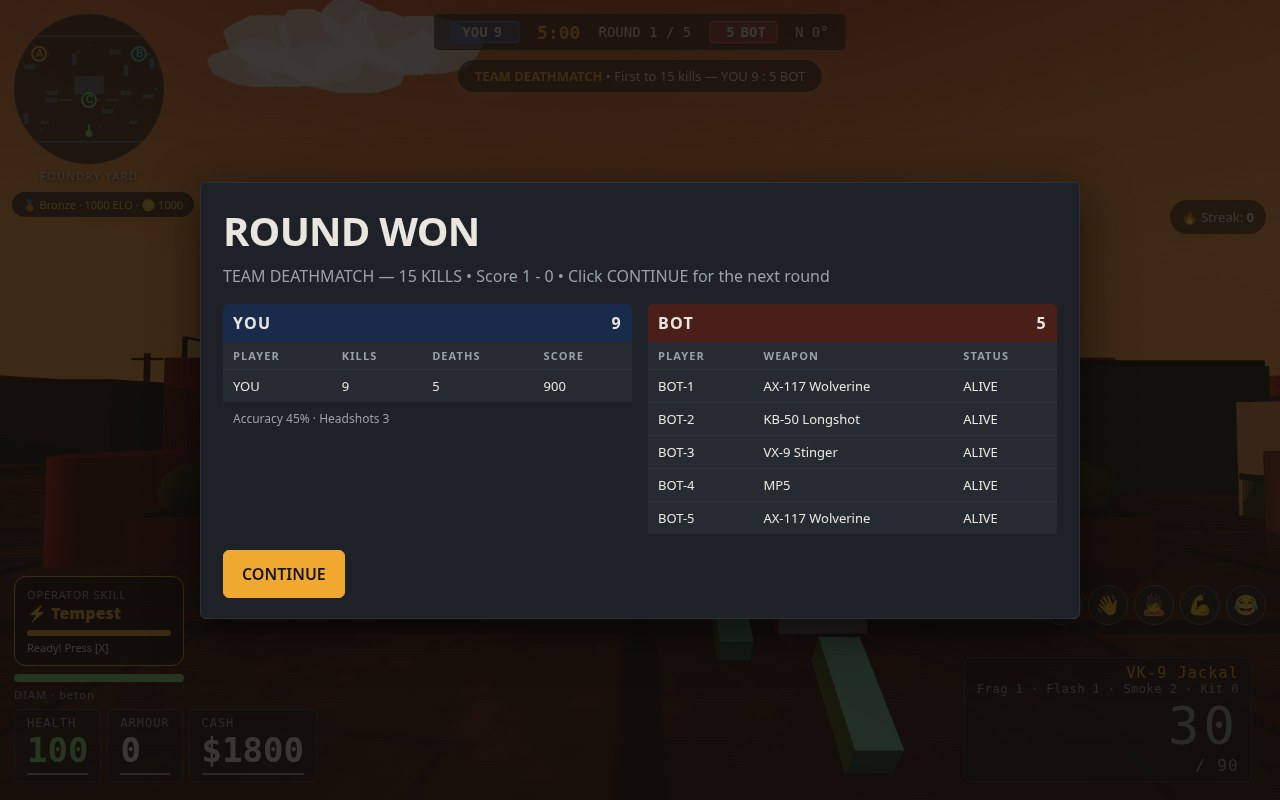
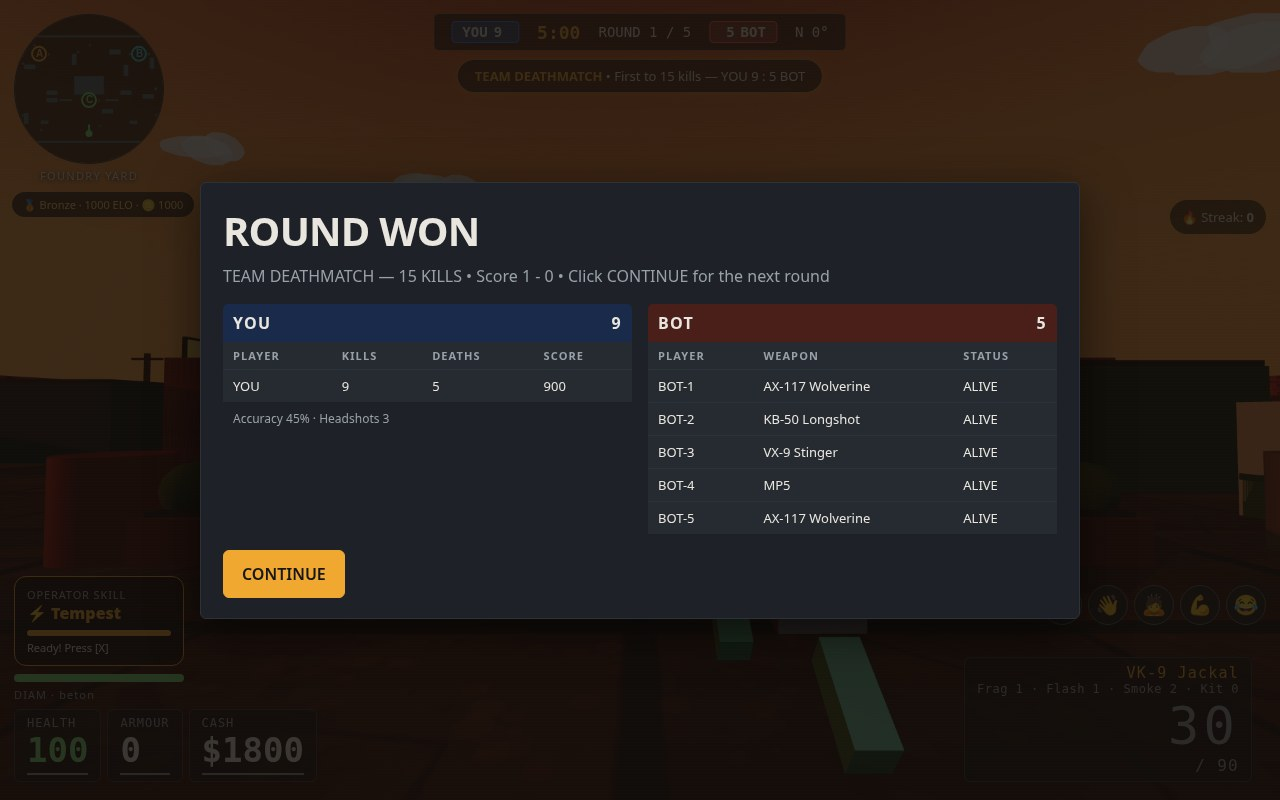
forge-fps per-map lighting pass: each map gets its own light atmosphere via MAP_WEATHER_FULL overrides (sun color/angle, hemi, sky, fog color, cloud tint) consumed by applyWeather; foundry default weather clear->sunset so normal play matches the dusk reference; ember warm desert, twin soft bright da

diff --git a/game/src/weather.js b/game/src/weather.js
@@ -19,20 +19,23 @@ export const WEATHER_IDS = Object.keys(WEATHER_DEFS);
 // Default weather per map (original map ids, not the COD names).
 // v17.2: ruin = heavy rain + lightning, cargo = drizzle, harvest = foggy
 // morning (the older fog/clear defaults for those maps are superseded).
-export const MAP_WEATHER = { ember: 'sand', ruin: 'storm', iron: 'sunset', foundry: 'clear', twin: 'clear', cargo: 'rain', harvest: 'fog' };
+export const MAP_WEATHER = { ember: 'sand', ruin: 'storm', iron: 'sunset', foundry: 'sunset', twin: 'clear', cargo: 'rain', harvest: 'fog' };
 // Full per-map weather parameters (v17.2): each map has its own sky + fog
 // density + sun intensity + particle behaviour + wind + ambient sound.
 // The base `weather` must match MAP_WEATHER above; the extras only apply
 // while that map weather is in effect (cycle / random / manual override the
 // base weather, and then the extras do not apply).
+// Per-map light (v28): each map gets its own sun color/angle, hemisphere,
+// sky, fog color and cloud tint on top of its weather — foundry stays the
+// plain sunset def (the dusk reference); ruin keeps its storm-night identity.
 export const MAP_WEATHER_FULL = {
-  ember: { weather: 'sand', fog: [6, 30], sunInt: 1.6, wind: 3, ambient: 'sand', bolt: null, puddles: false, fogBalls: false },
-  twin: { weather: 'clear', fog: [30, 95], sunInt: 3.2, wind: 1, ambient: 'birds', bolt: null, puddles: false, fogBalls: false },
-  iron: { weather: 'sunset', fog: [18, 60], sunInt: 1.2, wind: 1, ambient: 'city', bolt: null, puddles: false, fogBalls: false, sky: { top: '#3a3a42', mid: '#5a5a62', horizon: '#8a8a92', glow: 'rgba(180,180,190,0.3)', stars: false } },
-  cargo: { weather: 'rain', fog: [25, 80], sunInt: 1.0, wind: 1, ambient: 'rain-light', bolt: null, puddles: true, fogBalls: false },
-  harvest: { weather: 'fog', fog: [4, 25], sunInt: 0.8, wind: 0.5, ambient: 'birds', bolt: null, puddles: false, fogBalls: true },
-  ruin: { weather: 'storm', fog: [15, 55], sunInt: 2.0, wind: 2, ambient: 'rain-heavy', bolt: [2, 4], puddles: true, fogBalls: false },
-  foundry: { weather: 'clear', fog: [30, 95], sunInt: 2.8, wind: 1, ambient: 'city', bolt: null, puddles: false, fogBalls: false },
+  ember: { weather: 'sand', fog: [6, 30], sunInt: 1.9, wind: 3, ambient: 'sand', bolt: null, puddles: false, fogBalls: false, sky: { top: '#7a5a22', mid: '#c89848', horizon: '#f0d078', glow: 'rgba(255,220,140,0.6)', stars: false }, sunC: 0xffc860, sunP: [-30, 40, 20], hemi: [0xe8c878, 0x8a6a3a, 1.25], bg: 0xd8b25a, cloud: 0xffe8c0 },
+  twin: { weather: 'clear', fog: [30, 95], sunInt: 3.2, wind: 1, ambient: 'birds', bolt: null, puddles: false, fogBalls: false, sky: { top: '#4a86c8', mid: '#8ab8e8', horizon: '#ffe8c0', glow: 'rgba(255,235,180,0.8)', stars: false }, sunC: 0xfff0c0, sunP: [-25, 65, 15], hemi: [0xcfe0ff, 0x9a8a6a, 1.7], bg: 0x9fd0f0, cloud: 0xffffff },
+  iron: { weather: 'sunset', fog: [18, 60], sunInt: 1.2, wind: 1, ambient: 'city', bolt: null, puddles: false, fogBalls: false, sky: { top: '#3a3a42', mid: '#5a5a62', horizon: '#8a8a92', glow: 'rgba(180,180,190,0.3)', stars: false }, sunC: 0xff8a5a, sunP: [-40, 14, 20], hemi: [0x8a8a9a, 0x3a3a44, 1.0], bg: 0x6a6a72, cloud: 0x6a6a72 },
+  cargo: { weather: 'rain', fog: [25, 80], sunInt: 1.0, wind: 1, ambient: 'rain-light', bolt: null, puddles: true, fogBalls: false, sky: { top: '#232c36', mid: '#3a4753', horizon: '#5a6a72', glow: 'rgba(170,190,205,0.3)', stars: false }, sunC: 0xb8c4d0, sunP: [-20, 55, 10], hemi: [0x7a8a9a, 0x3a3a3a, 1.0], bg: 0x4a5a68, cloud: 0x5a6a78 },
+  harvest: { weather: 'fog', fog: [4, 25], sunInt: 0.8, wind: 0.5, ambient: 'birds', bolt: null, puddles: false, fogBalls: true, sky: { top: '#7a8a6a', mid: '#b8c898', horizon: '#ffe0a0', glow: 'rgba(255,220,150,0.7)', stars: false }, sunC: 0xffd890, sunP: [45, 12, 10], hemi: [0xffe0a8, 0x5a6a4a, 1.1], bg: 0xa8b89a, cloud: 0xf0e8d0 },
+  ruin: { weather: 'storm', fog: [15, 55], sunInt: 2.0, wind: 2, ambient: 'rain-heavy', bolt: [2, 4], puddles: true, fogBalls: false, sunC: 0x9fb8ff, sunP: [-20, 40, 10], hemi: [0x3a4a6a, 0x12121a, 1.3], bg: 0x1a2028, cloud: 0x2a323e },
+  foundry: { weather: 'sunset', fog: [18, 70], sunInt: 2.6, wind: 1, ambient: 'city', bolt: null, puddles: false, fogBalls: false },
 };
 // Ambient sound per weather type (used when no per-map ambient is set).
 const WEATHER_AMBIENT = { clear: 'birds', sunset: 'city', night: 'city', rain: 'rain-light', storm: 'rain-heavy', sand: 'sand', snow: 'wind', fog: 'wind', dawn: 'birds' };
@@ -181,24 +184,27 @@ export function createWeather(scene, S, world, audio) {
       rainbowDelay = 10; rainbowT = 0;
     }
     S.weather = id;
-    scene.background = new THREE.Color(def.bg);
-    scene.fog.color.setHex(def.bg);
+    const bg = (over && over.bg != null) ? over.bg : def.bg;
+    scene.background = new THREE.Color(bg);
+    scene.fog.color.setHex(bg);
     // Graphics quality (v18.6.10): Low pulls the fog in close, Ultra pushes it out.
     const fogF = S.fogFactor || 1;
     fogNT = ((over && over.fog) ? over.fog[0] : def.fog[0]) * fogF;
     fogFT = ((over && over.fog) ? over.fog[1] : def.fog[1]) * fogF;
     world.setSky((over && over.sky) ? over.sky : def.sky);
-    world.sun.color.setHex(def.sun.color);
+    world.sun.color.setHex((over && over.sunC != null) ? over.sunC : def.sun.color);
     // Brightness slider (v18.3.2) × Ultra sun boost (v18.6.10).
     const bright = (S.settings && S.settings.graphics && S.settings.graphics.brightness) || 1;
     const qSun = S.qualitySun || 1;
     sunTarget = ((over && over.sunInt != null) ? over.sunInt : def.sun.int) * bright * qSun;
-    world.sun.position.set(...def.sun.pos);
+    const sp = (over && over.sunP) ? over.sunP : def.sun.pos;
+    world.sun.position.set(...sp);
     baseSunInt = sunTarget;
-    sunBase = { x: def.sun.pos[0] * 1.6, y: Math.max(12, def.sun.pos[1]), z: def.sun.pos[2] * 1.6 };
-    world.hemi.color.setHex(def.hemi.sky);
-    world.hemi.groundColor.setHex(def.hemi.ground);
-    hemiTarget = def.hemi.int;
+    sunBase = { x: sp[0] * 1.6, y: Math.max(12, sp[1]), z: sp[2] * 1.6 };
+    const hm = (over && over.hemi) ? over.hemi : [def.hemi.sky, def.hemi.ground, def.hemi.int];
+    world.hemi.color.setHex(hm[0]);
+    world.hemi.groundColor.setHex(hm[1]);
+    hemiTarget = hm[2];
     sunMesh.visible = id !== 'night'; sunHalo.visible = id !== 'night';
     sunMesh.material.color.setHex(id === 'sunset' ? 0xff5a2a : id === 'dawn' ? 0xffb080 : 0xffdf80);
     sunHalo.material.color.setHex(id === 'sunset' ? 0xff5a2a : id === 'dawn' ? 0xffb080 : 0xffdf80);
@@ -206,7 +212,7 @@ export function createWeather(scene, S, world, audio) {
     moonMesh.visible = id === 'night';
     const nClouds = def.clouds;
     clouds.forEach((c, i) => { c.visible = i < nClouds; }); // clusters share cloudMat
-    cloudMat.color.setHex(id === 'night' ? 0x2a2a3a : id === 'storm' || id === 'rain' ? 0x3a4550 : id === 'dawn' ? 0xffc8d0 : (over && over.sky) ? 0x6a6a72 : 0xffffff);
+    cloudMat.color.setHex((over && over.cloud != null) ? over.cloud : id === 'night' ? 0x2a2a3a : id === 'storm' || id === 'rain' ? 0x3a4550 : id === 'dawn' ? 0xffc8d0 : (over && over.sky) ? 0x6a6a72 : 0xffffff);
     cloudMat.opacity = id === 'storm' || id === 'rain' ? 0.95 : 0.8;
     stars.visible = !!def.stars;
     rain.visible = def.rain > 0;
